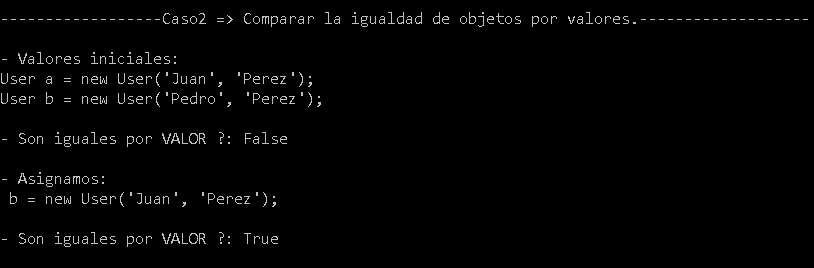
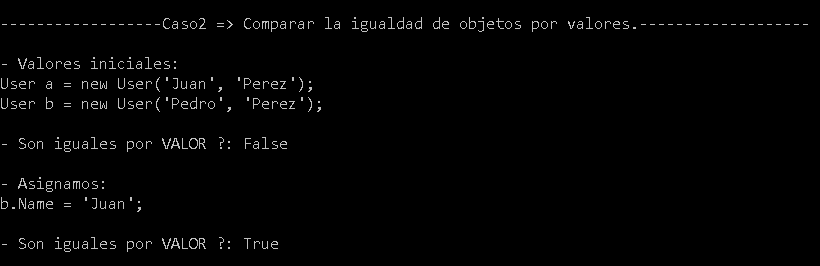
.

diff --git a/Caso3/Compare.cs b/Caso3/Compare.cs
@@ -4,6 +4,7 @@ namespace CompareObjects.Caso3
 {
     /// <summary>
     /// Comparar la igualdad de objetos por identificacion.
+    /// ¿ Como hacemos para saber si dos objetos del mismo tipo son iguales, cuando NO tienen los mismos valores en sus campos y NO tienen la misma referencia en memoria ?
     /// </summary>
     public static class Compare
     {
@@ -11,17 +12,24 @@ namespace CompareObjects.Caso3
         {
             Console.WriteLine("\n------------------Caso3 => Comparar la igualdad de objetos por identificacion.-------------------");
 
-            User a = new User("1", "Juan");
-            User b = new User("9", "Pedro");
+            Caso3.User a = new Caso3.User("1", "Juan", "Garcia");
+            Caso3.User b = new Caso3.User("9", "Pedro", "Morales");
 
-            Console.WriteLine("\n- Valores iniciales:\nUser a = new User('1', 'Juan');\nUser b = new User('9', 'Pedro');\n");
-            CompareObjectsHelper<User>.IdentifierEquals(a, b);
+            Console.WriteLine("\n- Valores iniciales:\nUser a = new User('1', 'Juan', 'Garcia');\nUser b = new User('9', 'Pedro', 'Morales');\n");
+            CompareIdentifierEquals(a, b);
 
             // Asignamos
-            b = new User("1", "Carlos");
+            b.Id = "1";
 
-            Console.WriteLine("\n- Asignamos:\n b = new User('1', 'Carlos');\n");
-            CompareObjectsHelper<User>.IdentifierEquals(a, b);
+            Console.WriteLine("\n- Asignamos:\nb.Id = '1';\n");
+            CompareIdentifierEquals(a, b);
+        }
+
+        public static void CompareIdentifierEquals(Caso3.User a, Caso3.User b)
+        {
+            Console.WriteLine("- Son iguales por IDENTIFICACION ?:");
+            Console.WriteLine($"a.Id.Equals(b.Id): {a.Id.Equals(b.Id)}");
+            Console.WriteLine($"(a.Id == b.Id): {a.Id == b.Id}");
         }
     }
 }

diff --git a/Caso1/Compare.cs b/Caso1/Compare.cs
@@ -4,6 +4,7 @@ namespace CompareObjects.Caso1
 {
     /// <summary>
     /// Comparar la igualdad de objetos por referencia.
+    /// ¿ Como hacemos para saber si dos objetos del mismo tipo son iguales, cuando NO tienen una key que los identifique(ej. Id unico) y NO tienen los mismos valores en sus campos ?
     /// </summary>
     public static class Compare
     {
@@ -11,17 +12,22 @@ namespace CompareObjects.Caso1
         {
             Console.WriteLine("\n------------------Caso1 => Comparar la igualdad de objetos por referencia.-------------------");
 
-            User a = new User("Juan");
-            User b = new User("Pedro");
+            Caso1.User a = new Caso1.User("Juan", "Perez");
+            Caso1.User b = new Caso1.User("Pedro", "Gonzales");
 
-            Console.WriteLine("\n- Valores iniciales:\nUser a = new User('Juan');\nUser b = new User('Pedro');\n");
-            CompareObjectsHelper<User>.ReferenceEquals(a, b);
+            Console.WriteLine("\n- Valores iniciales:\nUser a = new User('Juan','Perez');\nUser b = new User('Pedro', 'Gonzales');\n");
+            CompareReferenceEquals(a, b);
 
             // Asignamos
             b = a;
 
             Console.WriteLine("\n- Asignamos:\n b = a;\n");
-            CompareObjectsHelper<User>.ReferenceEquals(a, b);
+            CompareReferenceEquals(a, b);
+        }
+
+        private static void CompareReferenceEquals(Caso1.User a, Caso1.User b)
+        {
+            Console.WriteLine($"- Son iguales por REFERENCIA ?: {object.ReferenceEquals(a, b)}");
         }
     }
 }

diff --git a/Caso2/Compare.cs b/Caso2/Compare.cs
@@ -4,6 +4,7 @@ namespace CompareObjects.Caso2
 {
     /// <summary>
     /// Comparar la igualdad de objetos por valores.
+    /// ¿ Como hacemos para saber si dos objetos del mismo tipo son iguales, cuando NO tienen una key que los identifique(ej. Id unico) y NO tienen la misma referencia en memoria ?
     /// </summary>
     public static class Compare
     {
@@ -11,17 +12,22 @@ namespace CompareObjects.Caso2
         {
             Console.WriteLine("\n------------------Caso2 => Comparar la igualdad de objetos por valores.-------------------");
 
-            User a = new User("Juan", "Perez");
-            User b = new User("Pedro", "Perez");
+            Caso2.User a = new Caso2.User("Juan", "Perez");
+            Caso2.User b = new Caso2.User("Pedro", "Perez");
 
             Console.WriteLine("\n- Valores iniciales:\nUser a = new User('Juan', 'Perez');\nUser b = new User('Pedro', 'Perez');\n");
-            CompareObjectsHelper<User>.ValuesEquals(a, b);
+            CompareValuesEquals(a, b);
 
             // Asignamos
-            b = new User("Juan", "Perez");
+            b.Name = "Juan";
 
-            Console.WriteLine("\n- Asignamos:\n b = new User('Juan', 'Perez');\n");
-            CompareObjectsHelper<User>.ValuesEquals(a, b);
+            Console.WriteLine("\n- Asignamos:\nb.Name = 'Juan';\n");
+            CompareValuesEquals(a, b);
+        }
+
+        public static void CompareValuesEquals(Caso2.User a, Caso2.User b)
+        {
+            Console.WriteLine($"- Son iguales por VALOR ?: {a.Equals(b)}");
         }
     }
 }

diff --git a/Caso1/User.cs b/Caso1/User.cs
@@ -1,13 +1,14 @@
 namespace CompareObjects.Caso1
 {
-    public class User : IEntityBase
+    public class User
     {
-        public string Id { get; set; }
-        public string Name { get; set; }
-
-        public User(string name)
+        public User(string name, string surname)
         {
             Name = name;
+            Surname = surname;
         }
+
+        public string Name { get; set; }
+        public string Surname { get; set; }
     }
 }

diff --git a/Caso3/User.cs b/Caso3/User.cs
@@ -2,12 +2,14 @@
 {
     public class User : EntityBase
     {
-        public User(string id, string name)
+        public User(string id, string name, string surname)
         {
             Id = id;
             Name = name;
+            Surname = surname;  
         }
 
         public string Name { get; set; }
+        public string Surname { get; set; }
     }
 }

diff --git a/Caso2/User.cs b/Caso2/User.cs
@@ -1,10 +1,7 @@
-using System;
-
-namespace CompareObjects.Caso2
+namespace CompareObjects.Caso2
 {
-    public class User : IEntityBase
+    public class User
     {
-        public string Id { get; set; }
         public string Name { get; set; }
         public string Surname { get; set; }
 

diff --git a/Caso3/EntityBase.cs b/Caso3/EntityBase.cs
@@ -1,6 +1,6 @@
 namespace CompareObjects.Caso3
 {
-    public abstract class EntityBase : IEntityBase
+    public abstract class EntityBase
     {
         public string Id { get; set; }
 
